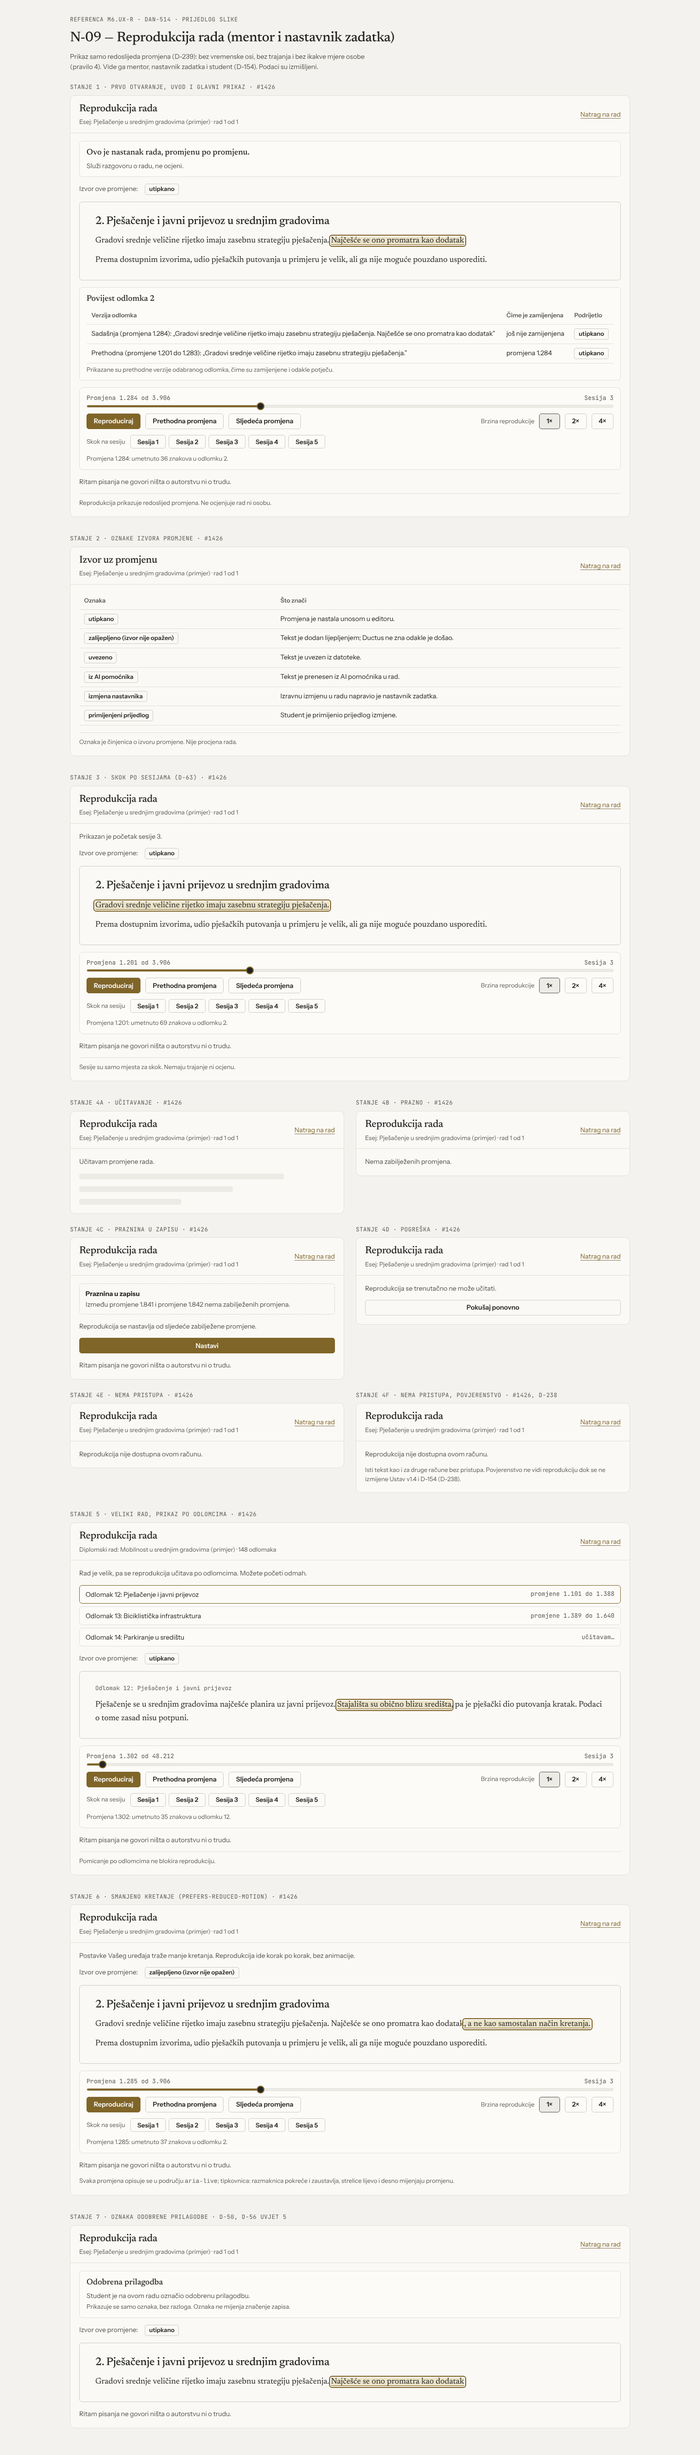
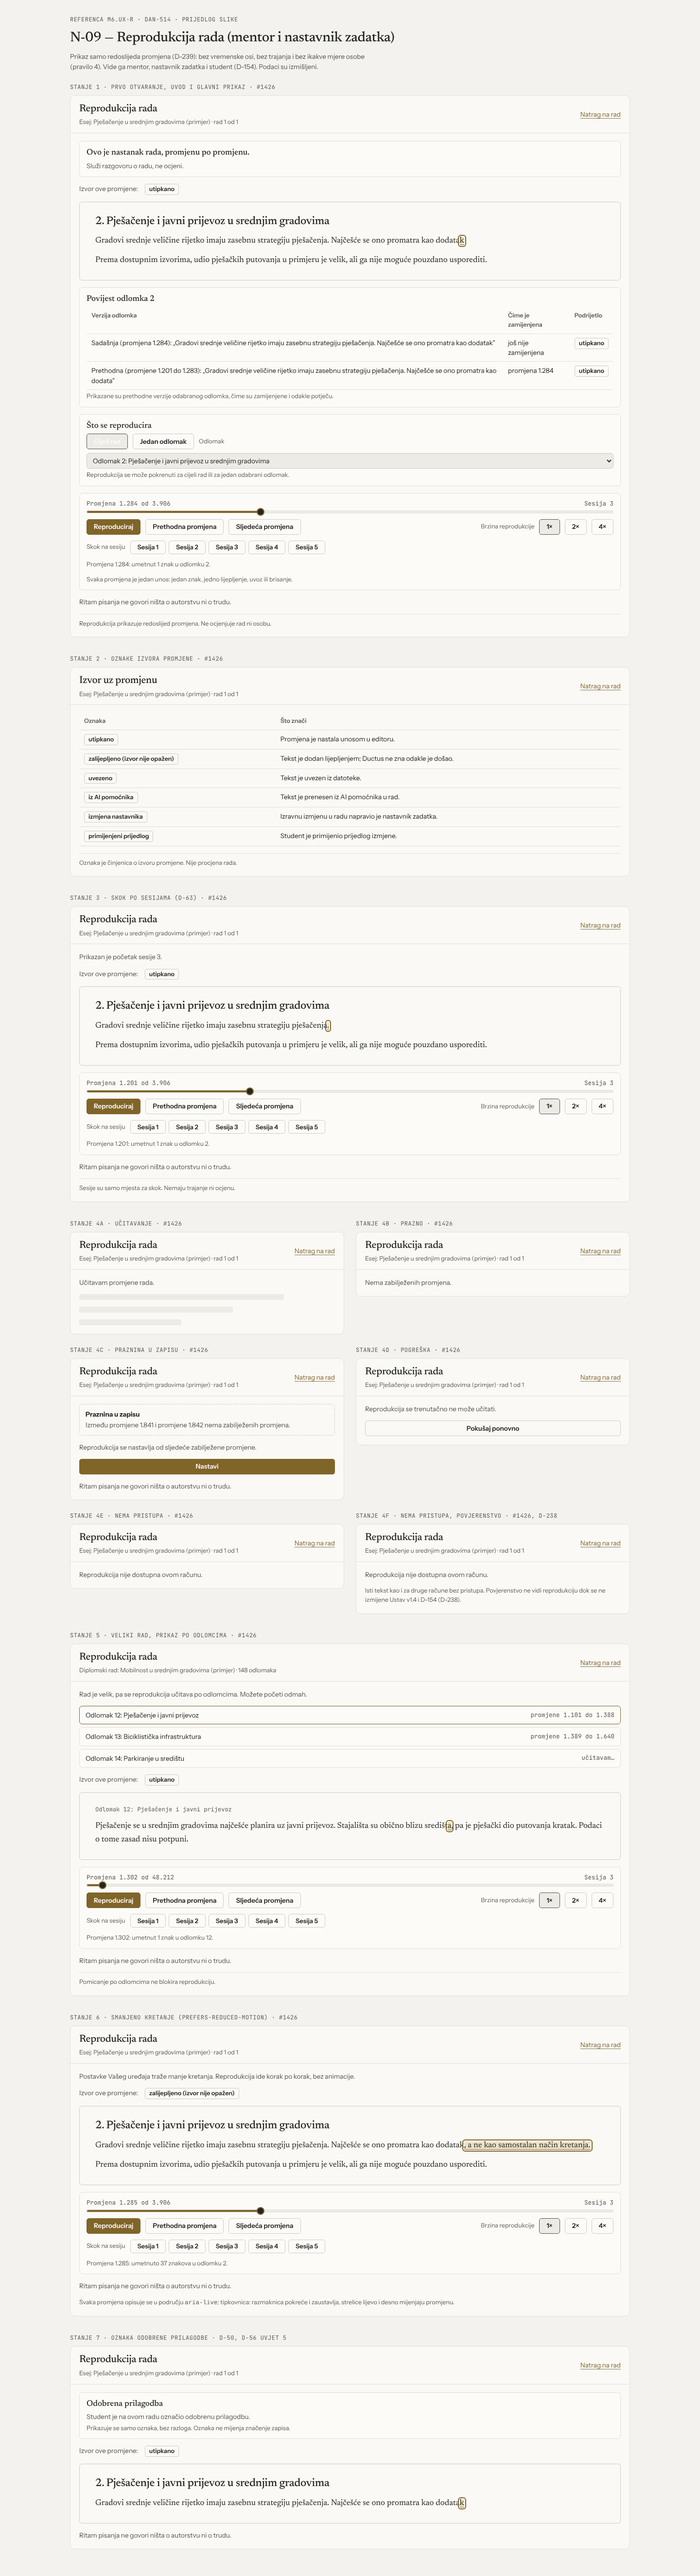
fix: per-character replay steps and scope choice in M6 replay references (DAN-514)
Claude-Session: https://claude.ai/code/session_01N1HowUePcNhpZvG2wacF1h

diff --git a/docs/design/ductura/m6-reference/n09-reprodukcija-nastavnik.html b/docs/design/ductura/m6-reference/n09-reprodukcija-nastavnik.html
@@ -22,16 +22,21 @@
         <div class="src-line"><span>Izvor ove promjene:</span><span class="src-tag">utipkano</span></div>
         <div class="sheet" aria-label="Tekst rada u trenutku odabrane promjene">
           <h3>2. Pješačenje i javni prijevoz u srednjim gradovima</h3>
-          <p>Gradovi srednje veličine rijetko imaju zasebnu strategiju pješačenja. <span class="ins cur">Najčešće se ono promatra kao dodatak</span></p>
+          <p>Gradovi srednje veličine rijetko imaju zasebnu strategiju pješačenja. Najčešće se ono promatra kao dodata<span class="ins cur">k</span></p>
           <p>Prema dostupnim izvorima, udio pješačkih putovanja u primjeru je velik, ali ga nije moguće pouzdano usporediti.</p>
         </div>
         <div class="intro" role="group" aria-labelledby="h-phn">
           <p id="h-phn">Povijest odlomka 2</p>
           <table class="table-src"><thead><tr><th scope="col">Verzija odlomka</th><th scope="col">Čime je zamijenjena</th><th scope="col">Podrijetlo</th></tr></thead><tbody>
             <tr><td>Sadašnja (promjena 1.284): „Gradovi srednje veličine rijetko imaju zasebnu strategiju pješačenja. Najčešće se ono promatra kao dodatak”</td><td>još nije zamijenjena</td><td><span class="src-tag">utipkano</span></td></tr>
-            <tr><td>Prethodna (promjene 1.201 do 1.283): „Gradovi srednje veličine rijetko imaju zasebnu strategiju pješačenja.”</td><td>promjena 1.284</td><td><span class="src-tag">utipkano</span></td></tr>
+            <tr><td>Prethodna (promjene 1.201 do 1.283): „Gradovi srednje veličine rijetko imaju zasebnu strategiju pješačenja. Najčešće se ono promatra kao dodata”</td><td>promjena 1.284</td><td><span class="src-tag">utipkano</span></td></tr>
           </tbody></table>
           <p class="meta">Prikazane su prethodne verzije odabranog odlomka, čime su zamijenjene i odakle potječu.</p>
+        </div>
+        <div class="intro" role="group" aria-labelledby="h-opseg">
+          <p id="h-opseg">Što se reproducira</p>
+          <div class="ctl-row"><button class="btn" type="button" aria-pressed="true">Cijeli rad</button><button class="btn secondary" type="button" aria-pressed="false">Jedan odlomak</button><label class="meta" for="odl-1">Odlomak</label><select id="odl-1" style="font:inherit;color:var(--ink);background:var(--well);border:1px solid var(--rule);border-radius:5px;padding:6px 8px;width:100%;min-width:0"><option>Odlomak 1: Uvod</option><option selected>Odlomak 2: Pješačenje i javni prijevoz u srednjim gradovima</option><option>Odlomak 3: Zaključak</option></select></div>
+          <p class="meta">Reprodukcija se može pokrenuti za cijeli rad ili za jedan odabrani odlomak.</p>
         </div>
         <div class="controls" role="group" aria-label="Kontrole reprodukcije">
           <div class="slider">
@@ -46,7 +51,8 @@
             <span class="meta" id="spd">Brzina reprodukcije</span><button class="btn secondary" type="button" aria-pressed="true">1×</button><button class="btn secondary" type="button" aria-pressed="false">2×</button><button class="btn secondary" type="button" aria-pressed="false">4×</button>
           </div>
           <div class="ctl-row"><span class="meta">Skok na sesiju</span><div class="sessions"><button class="btn secondary" type="button">Sesija 1</button><button class="btn secondary" type="button">Sesija 2</button><button class="btn secondary" type="button" aria-current="true">Sesija 3</button><button class="btn secondary" type="button">Sesija 4</button><button class="btn secondary" type="button">Sesija 5</button></div></div>
-          <p class="live" role="status" aria-live="polite">Promjena 1.284: umetnuto 36 znakova u odlomku 2.</p>
+          <p class="live" role="status" aria-live="polite">Promjena 1.284: umetnut 1 znak u odlomku 2.</p>
+          <p class="meta">Svaka promjena je jedan unos: jedan znak, jedno lijepljenje, uvoz ili brisanje.</p>
         </div>
         <p class="note">Ritam pisanja ne govori ništa o autorstvu ni o trudu.</p>
         <p class="foot">Reprodukcija prikazuje redoslijed promjena. Ne ocjenjuje rad ni osobu.</p>
@@ -79,7 +85,7 @@
         <div class="src-line"><span>Izvor ove promjene:</span><span class="src-tag">utipkano</span></div>
         <div class="sheet" aria-label="Tekst rada u trenutku odabrane promjene">
           <h3>2. Pješačenje i javni prijevoz u srednjim gradovima</h3>
-          <p><span class="ins cur">Gradovi srednje veličine rijetko imaju zasebnu strategiju pješačenja.</span></p>
+          <p>Gradovi srednje veličine rijetko imaju zasebnu strategiju pješačenja<span class="ins cur">.</span></p>
           <p>Prema dostupnim izvorima, udio pješačkih putovanja u primjeru je velik, ali ga nije moguće pouzdano usporediti.</p>
         </div>
         <div class="controls" role="group" aria-label="Kontrole reprodukcije">
@@ -95,7 +101,7 @@
             <span class="meta" id="spd">Brzina reprodukcije</span><button class="btn secondary" type="button" aria-pressed="true">1×</button><button class="btn secondary" type="button" aria-pressed="false">2×</button><button class="btn secondary" type="button" aria-pressed="false">4×</button>
           </div>
           <div class="ctl-row"><span class="meta">Skok na sesiju</span><div class="sessions"><button class="btn secondary" type="button">Sesija 1</button><button class="btn secondary" type="button">Sesija 2</button><button class="btn secondary" type="button" aria-current="true">Sesija 3</button><button class="btn secondary" type="button">Sesija 4</button><button class="btn secondary" type="button">Sesija 5</button></div></div>
-          <p class="live" role="status" aria-live="polite">Promjena 1.201: umetnuto 69 znakova u odlomku 2.</p>
+          <p class="live" role="status" aria-live="polite">Promjena 1.201: umetnut 1 znak u odlomku 2.</p>
         </div>
         <p class="note">Ritam pisanja ne govori ništa o autorstvu ni o trudu.</p>
         <p class="foot">Sesije su samo mjesta za skok. Nemaju trajanje ni ocjenu.</p>
@@ -178,7 +184,7 @@
         <div class="src-line"><span>Izvor ove promjene:</span><span class="src-tag">utipkano</span></div>
         <div class="sheet" aria-label="Tekst odabranog odlomka u trenutku odabrane promjene">
           <p class="para-mark">Odlomak 12: Pješačenje i javni prijevoz</p>
-          <p>Pješačenje se u srednjim gradovima najčešće planira uz javni prijevoz. <span class="ins cur">Stajališta su obično blizu središta</span>, pa je pješački dio putovanja kratak. Podaci o tome zasad nisu potpuni.</p>
+          <p>Pješačenje se u srednjim gradovima najčešće planira uz javni prijevoz. Stajališta su obično blizu središt<span class="ins cur">a</span>, pa je pješački dio putovanja kratak. Podaci o tome zasad nisu potpuni.</p>
         </div>
         <div class="controls" role="group" aria-label="Kontrole reprodukcije">
           <div class="slider">
@@ -193,7 +199,7 @@
             <span class="meta" id="spd">Brzina reprodukcije</span><button class="btn secondary" type="button" aria-pressed="true">1×</button><button class="btn secondary" type="button" aria-pressed="false">2×</button><button class="btn secondary" type="button" aria-pressed="false">4×</button>
           </div>
           <div class="ctl-row"><span class="meta">Skok na sesiju</span><div class="sessions"><button class="btn secondary" type="button">Sesija 1</button><button class="btn secondary" type="button">Sesija 2</button><button class="btn secondary" type="button" aria-current="true">Sesija 3</button><button class="btn secondary" type="button">Sesija 4</button><button class="btn secondary" type="button">Sesija 5</button></div></div>
-          <p class="live" role="status" aria-live="polite">Promjena 1.302: umetnuto 35 znakova u odlomku 12.</p>
+          <p class="live" role="status" aria-live="polite">Promjena 1.302: umetnut 1 znak u odlomku 12.</p>
         </div>
         <p class="note">Ritam pisanja ne govori ništa o autorstvu ni o trudu.</p>
         <p class="foot">Pomicanje po odlomcima ne blokira reprodukciju.</p>
@@ -245,7 +251,7 @@
         <div class="src-line"><span>Izvor ove promjene:</span><span class="src-tag">utipkano</span></div>
         <div class="sheet" aria-label="Tekst rada u trenutku odabrane promjene">
           <h3>2. Pješačenje i javni prijevoz u srednjim gradovima</h3>
-          <p>Gradovi srednje veličine rijetko imaju zasebnu strategiju pješačenja. <span class="ins cur">Najčešće se ono promatra kao dodatak</span></p>
+          <p>Gradovi srednje veličine rijetko imaju zasebnu strategiju pješačenja. Najčešće se ono promatra kao dodata<span class="ins cur">k</span></p>
         </div>
         <p class="note">Ritam pisanja ne govori ništa o autorstvu ni o trudu.</p>
       </div>

diff --git a/docs/design/ductura/m6-reference/s34-reprodukcija-student.html b/docs/design/ductura/m6-reference/s34-reprodukcija-student.html
@@ -30,16 +30,21 @@
         <div class="src-line"><span>Izvor ove promjene:</span><span class="src-tag">utipkano</span></div>
         <div class="sheet" aria-label="Tekst rada u trenutku odabrane promjene">
           <h3>2. Pješačenje i javni prijevoz u srednjim gradovima</h3>
-          <p>Gradovi srednje veličine rijetko imaju zasebnu strategiju pješačenja. <span class="ins cur">Najčešće se ono promatra kao dodatak</span></p>
+          <p>Gradovi srednje veličine rijetko imaju zasebnu strategiju pješačenja. Najčešće se ono promatra kao dodata<span class="ins cur">k</span></p>
           <p>Prema dostupnim izvorima, udio pješačkih putovanja u primjeru je velik, ali ga nije moguće pouzdano usporediti.</p>
         </div>
         <div class="intro" role="group" aria-labelledby="h-phs">
           <p id="h-phs">Povijest odlomka 2</p>
           <table class="table-src"><thead><tr><th scope="col">Verzija odlomka</th><th scope="col">Čime je zamijenjena</th><th scope="col">Podrijetlo</th></tr></thead><tbody>
             <tr><td>Sadašnja (promjena 1.284): „Gradovi srednje veličine rijetko imaju zasebnu strategiju pješačenja. Najčešće se ono promatra kao dodatak”</td><td>još nije zamijenjena</td><td><span class="src-tag">utipkano</span></td></tr>
-            <tr><td>Prethodna (promjene 1.201 do 1.283): „Gradovi srednje veličine rijetko imaju zasebnu strategiju pješačenja.”</td><td>promjena 1.284</td><td><span class="src-tag">utipkano</span></td></tr>
+            <tr><td>Prethodna (promjene 1.201 do 1.283): „Gradovi srednje veličine rijetko imaju zasebnu strategiju pješačenja. Najčešće se ono promatra kao dodata”</td><td>promjena 1.284</td><td><span class="src-tag">utipkano</span></td></tr>
           </tbody></table>
           <p class="meta">Prikazane su prethodne verzije odabranog odlomka, čime su zamijenjene i odakle potječu.</p>
+        </div>
+        <div class="intro" role="group" aria-labelledby="h-opseg">
+          <p id="h-opseg">Što se reproducira</p>
+          <div class="ctl-row"><button class="btn" type="button" aria-pressed="true">Cijeli rad</button><button class="btn secondary" type="button" aria-pressed="false">Jedan odlomak</button><label class="meta" for="odl-1">Odlomak</label><select id="odl-1" style="font:inherit;color:var(--ink);background:var(--well);border:1px solid var(--rule);border-radius:5px;padding:6px 8px;width:100%;min-width:0"><option>Odlomak 1: Uvod</option><option selected>Odlomak 2: Pješačenje i javni prijevoz u srednjim gradovima</option><option>Odlomak 3: Zaključak</option></select></div>
+          <p class="meta">Reprodukcija se može pokrenuti za cijeli rad ili za jedan odabrani odlomak.</p>
         </div>
         <div class="controls" role="group" aria-label="Kontrole reprodukcije">
           <div class="slider">
@@ -54,7 +59,8 @@
             <span class="meta" id="spd">Brzina reprodukcije</span><button class="btn secondary" type="button" aria-pressed="true">1×</button><button class="btn secondary" type="button" aria-pressed="false">2×</button><button class="btn secondary" type="button" aria-pressed="false">4×</button>
           </div>
           <div class="ctl-row"><span class="meta">Skok na sesiju</span><div class="sessions"><button class="btn secondary" type="button">Sesija 1</button><button class="btn secondary" type="button">Sesija 2</button><button class="btn secondary" type="button" aria-current="true">Sesija 3</button><button class="btn secondary" type="button">Sesija 4</button><button class="btn secondary" type="button">Sesija 5</button></div></div>
-          <p class="live" role="status" aria-live="polite">Promjena 1.284: umetnuto 36 znakova u odlomku 2.</p>
+          <p class="live" role="status" aria-live="polite">Promjena 1.284: umetnut 1 znak u odlomku 2.</p>
+          <p class="meta">Svaka promjena je jedan unos: jedan znak, jedno lijepljenje, uvoz ili brisanje.</p>
         </div>
         <div class="intro" role="group" aria-labelledby="h-nap1">
           <p id="h-nap1">Napomena uz promjenu 1.284</p>
@@ -195,7 +201,7 @@
         <div class="src-line"><span>Izvor ove promjene:</span><span class="src-tag">utipkano</span></div>
         <div class="sheet" aria-label="Tekst rada u trenutku odabrane promjene">
           <h3>2. Pješačenje i javni prijevoz u srednjim gradovima</h3>
-          <p>Gradovi srednje veličine rijetko imaju zasebnu strategiju pješačenja. <span class="ins cur">Najčešće se ono promatra kao dodatak</span></p>
+          <p>Gradovi srednje veličine rijetko imaju zasebnu strategiju pješačenja. Najčešće se ono promatra kao dodata<span class="ins cur">k</span></p>
         </div>
         <p class="note">Ritam pisanja ne govori ništa o autorstvu ni o trudu.</p>
       </div>

diff --git a/docs/design/ductura/m6-reference/README.md b/docs/design/ductura/m6-reference/README.md
@@ -20,6 +20,7 @@ Opseg M6.UX-R po odluci orkestratora (#1091): PR 1 M6.2 (S-34, N-09); PR 2 M6.3/
 | Stanje | Sadržaj |
 |---|---|
 | glavni prikaz | uvod pri prvom otvaranju; kontrola „Promjena n od N” (klizač po redoslijedu, bez vremenske osi); brzina reprodukcije 1×, 2×, 4×; oznaka izvora promjene; opis promjene u `aria-live` |
+| opseg i korak | u glavnom prikazu obje uloge „Što se reproducira”: „Cijeli rad” ili „Jedan odlomak” s izborom odlomka (`docs/PRODUCT.md` §6); korak je jedan unos (jedan znak, jedno lijepljenje, uvoz ili brisanje, D-143), pa su primjeri promjena 1.201, 1.284 i 1.302 jedan umetnut znak, a 1.285 jedno lijepljenje |
 | oznake izvora | utipkano, zalijepljeno (izvor nije opažen), uvezeno, iz AI pomoćnika, izmjena nastavnika, primijenjeni prijedlog |
 | skok po sesijama | „Sesija n” bez trajanja i bez riječi o stankama (D-63) |
 | učitavanje, prazno, pogreška | „Učitavam promjene rada.”, „Nema zabilježenih promjena.”, pogreška koja studentu potvrđuje da rad može pisati i predati |
